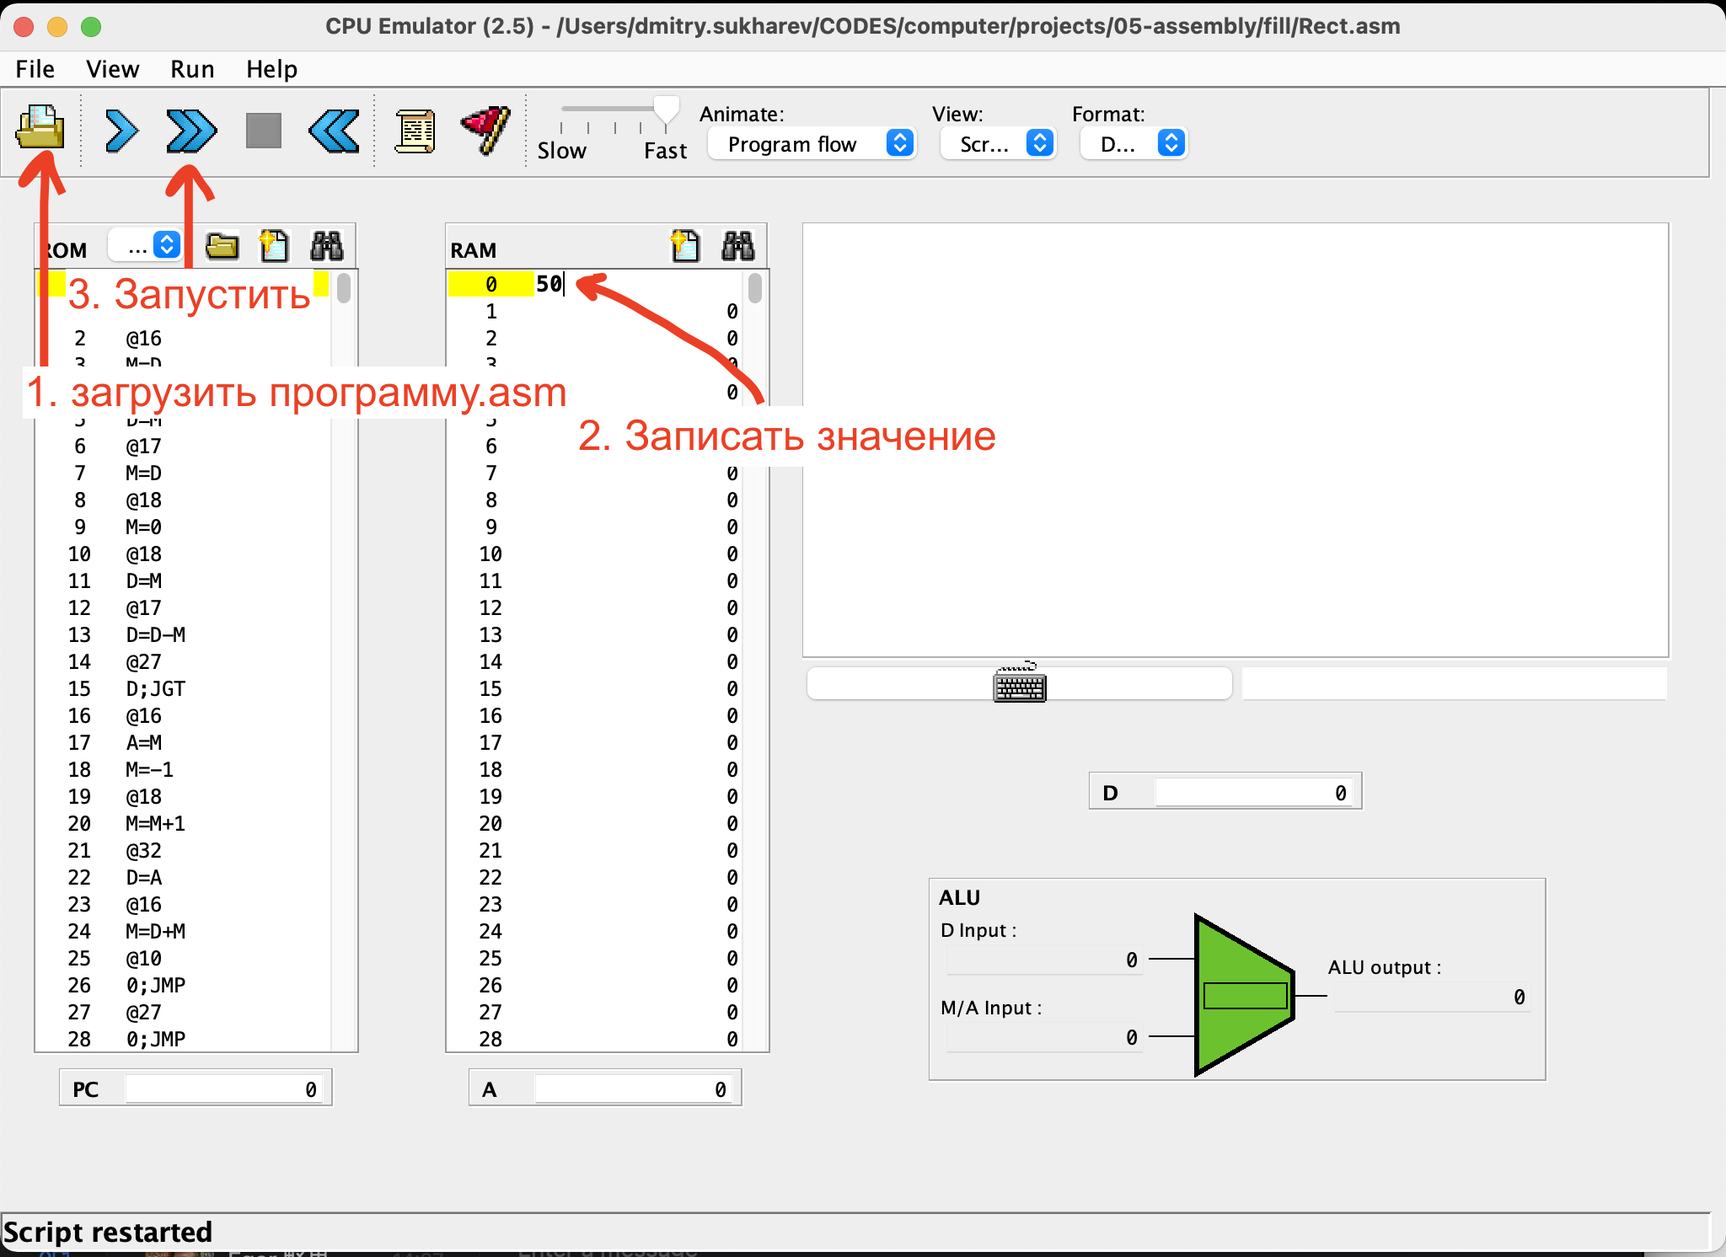
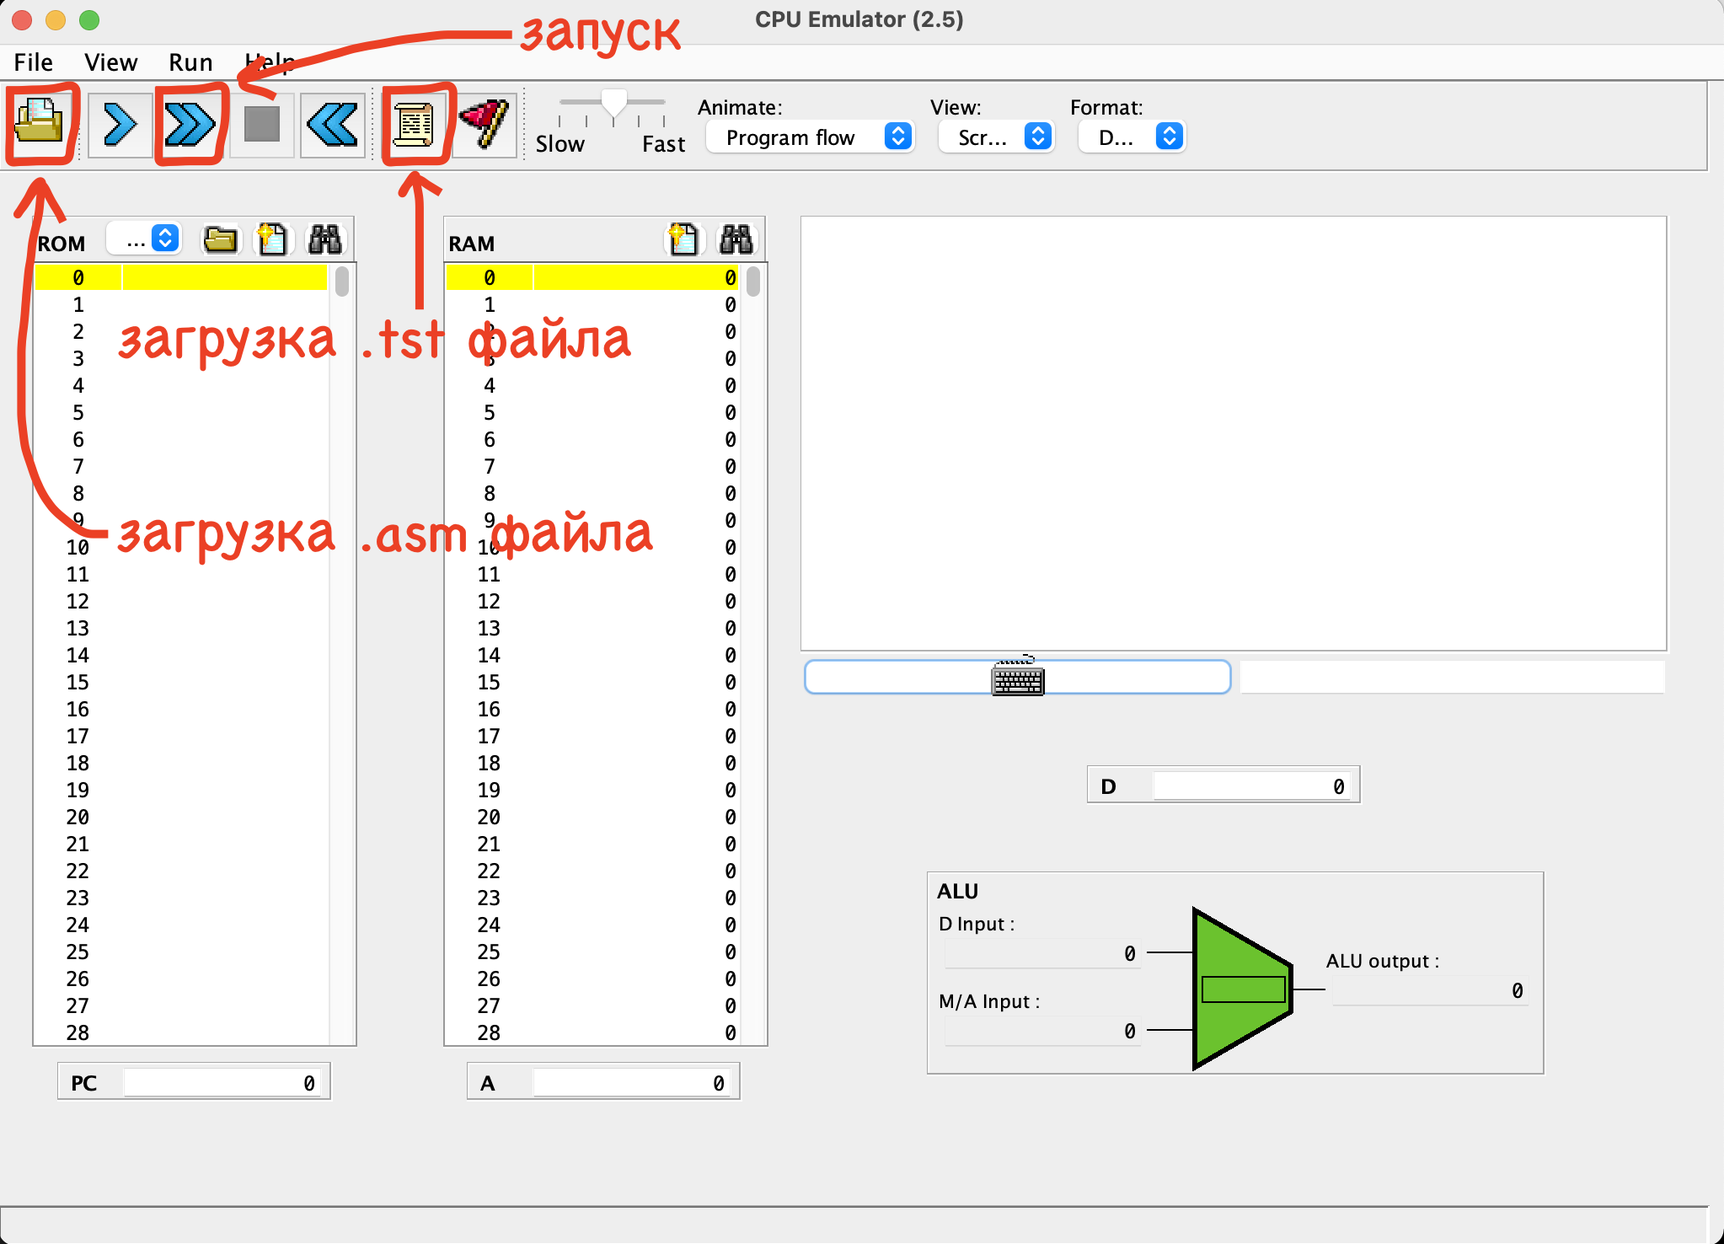
05-assembly editing

diff --git a/projects/05-assembly/README.md b/projects/05-assembly/README.md
@@ -1,8 +1,8 @@
 <!-- Если читаете файл в VSCode — нажмите ctrl+shift+v, чтобы включить режим просмотра. Для macOS — cmd+shift+v. -->
 
-# Язык ассемблера
+# Инструкция: язык ассемблера
 
-Рассмотрим язык ассемблера процессора, который мы собрали в предыдущей главе. Собранный процессор имеет два регистра (А, D) и оперирует 32K регистровой памятью.
+Рассмотрим язык ассемблера процессора, который мы собрали в предыдущей главе. Собранный процессор имеет два регистра (А, D) и оперирует 32K-регистровой памятью.
 
 Наш язык ассемблера поддерживает два типа инструкций: А и C. Рассмотрим их подробнее.
 
@@ -17,7 +17,7 @@
 Когда вы записываете какое-то число в регистр А, происходит два побочных действия:
 
 1. активируется регистр RAM[A] для записи/чтения, об этом чуть позже.
-2. PC `in` инпут становится равен значению в регистре А.
+2. PC `in` инпут становится равен значению в регистре А. То есть, значение в регистре А является указателем на инструкцию при осуществлении перехода.
 
 ## Инструкция С (compute)
 
@@ -38,7 +38,7 @@ D=M // D=RAM[A]
 @10 // A=10
 D=A // D=10
 @99 // A=99
-M=D // RAM[99]=D
+M=D // RAM[99]=10
 ```
 
 ## Переменные
@@ -48,14 +48,14 @@ M=D // RAM[99]=D
 Пример использования переменной:
 
 ```c
-// сохраним число 100 в переменную variable
+// сохраняем число 100 в переменную variable
 @100 // A=100
 D=A // D=100
 @variable // A=variable
-M=D // M=RAM[variable]=D=100
+M=D // RAM[variable]=100
 ```
 
-В примере выше мы сохранили значение 100 в переменную. Мы также могли сохранить значение в любой из RAM регистров, просто по адресу, но запоминать адреса регистров сложно, поэтому используются переменные. Запомнить, что в переменной `sum` лежит сумма двух чисел проще, чем вспоминать адрес регистра в который вы эту сумму сохранили, особенно, когда таких регистров много.
+В примере выше мы сохранили значение 100 в переменную. Мы также могли сохранить значение в любой из RAM регистров, просто по адресу, но запоминать адреса регистров сложнее, поэтому используются переменные. Запомнить, что в переменной `sum` лежит сумма двух чисел проще, чем вспоминать адрес регистра в который вы эту сумму сохранили, особенно, когда таких регистров много.
 
 ### Предустановленные переменные
 
@@ -75,20 +75,20 @@ M=D // M=RAM[variable]=D=100
 12. `SCREEN` — установлена в 16384 (это начало I/O регистров экрана)
 13. `KBD` — установлена в 24576 (это I/O регистр клавиатуры)
 
-Обратите внимание на переменные `SCREEN` и `KBD`, они нужны для взаимодействия с устройствами ввода/вывода — экраном и клавиатурой. Переменная `SCREEN` хранит адрес первого I/O регистра экрана. Регистры экрана начинаются с 16384 регистра и заканчиваются на 24575 регистре включительно. Переменная KBD хранит адрес регистра клавиатуры — 24576.
+Обратите внимание на переменные `SCREEN` и `KBD`, они нужны для взаимодействия с устройствами ввода/вывода — экраном и клавиатурой. Переменная `SCREEN` хранит адрес первого I/O регистра экрана. Регистры экрана начинаются с 16384 регистра и заканчиваются на 24575 регистре включительно. Переменная `KBD` хранит адрес регистра клавиатуры — 24576.
 
 Переменные `SP`, `LCL`, `ARG`, `THIS`, `THAT` подробнее рассматриваются в следующих проектах.
 
 ## Переходы
 
-Еще инструкция С отвечает за выполнение переходов. Если хотите перейти к 15-ой инструкции (или любой другой) — записываете 15-ть в регистр А и через инструкцию С выполняете переход, вот так:
+Еще инструкция С отвечает за выполнение переходов. Если хотите перейти к 15-ой инструкции (или любой другой) — записываете 15 в регистр А и через инструкцию С выполняете переход, вот так:
 
 ```c
 @15   // A=15
 0;JMP // безусловный переход к 15-ой инструкции
 ```
 
-В программе выше мы переходим к 15-ой инструкции, но инструкции всего две, поэтому такой пример не имеет смысла, давайте рассмотрим полноценную программу.
+Рассмотрим примеры переходов в полноценной программе:
 
 ```c
 // Программа: Signum.asm
@@ -99,18 +99,18 @@ M=D // M=RAM[variable]=D=100
 @R0    // A = 0
 D=M    // D = RAM[0]
 @8     // A = 8
-D;JGT  // условный переход: если (R0 > 0) goto -> 8
+D;JGT  // условный переход: если (D > 0) переходим к 8 инструкции
 @R1    // A = 1
 M=0    // иначе RAM[1]=0
 @10    // A = 10
-0;JMP  // безусловный переход: goto -> 10
+0;JMP  // безусловный переход к 10 инструкции
 @R1    // A = 1
-M=1    // RAM[1]=1
+M=1    // RAM[1] = 1
 @10    // A = 10
-0;JMP  // безусловный переход: goto -> 10
+0;JMP  // безусловный переход к 10 инструкции
 ```
 
-В примере программы выше условный переход происходит на четвертой строке `D;JGT`, а указатель на инструкцию к которой осуществляется переход, указан на третьей строке `@8`. Если значение в регистре R0 больше нуля происходит переход к 8-ой инструкции.
+В примере программы выше условный переход происходит на четвертой строке `D;JGT`, а указатель на инструкцию к которой осуществляется переход, указан на третьей строке `@8`: если значение в регистре R0 больше нуля происходит переход к 8-ой инструкции.
 
 Еще переходы осуществляются на 7-ой и 11-ой инструкциях. Там происходит переход к 10-ой инструкции.
 
@@ -126,20 +126,20 @@ M=1    // RAM[1]=1
 //            иначе R1=0
 // Использование: запишите значение в RAM[0],
 //                смотрите результат в RAM[1]
-@R0
+@R0    // A = 0
 D=M    // D = RAM[0]
 @POSITIVE
-D;JGT  // если (R0>0) goto -> POSITIVE
-@R1
-M=0    // иначе R1=RAM[1]=0
+D;JGT  // условный переход: если (D > 0) переходим к лейблу POSITIVE
+@R1    // A = 1
+M=0    // иначе RAM[1] = 0
 @END
-0;JMP  // goto end
+0;JMP  // безусловный переход к лейблу end
 (POSITIVE) // лейбл POSITIVE
 @R1
-M=1    // R1=RAM[1]=1
+M=1    // RAM[1]=1
 (END)  // лейбл END
 @END
-0;JMP
+0;JMP  // безусловный переход к лейблу end
 ```
 
 Видите, мы убрали переходы по номеру строки и стали переходить к лейблам. Это удобнее, так исчезает привязка программы к номерам строк.
@@ -216,7 +216,7 @@ M=D
 // RAM[0] и RAM[1]
 @R1 // A=1
 D=M // D=RAM[1]
-@temp // A=temp
+@temp // A=temp (temp — это переменная)
 M=D // RAM[temp] = R1
 @R0 // A=0
 D=M // D=RAM[0]
@@ -253,7 +253,7 @@ M=D   // RAM[2] = D
 @R0
 D=M    // D = RAM[0]
 @POSITIVE
-D;JGT  // если (R0>0) goto -> POSITIVE
+D;JGT  // если (R0>0) переходим к лейблу POSITIVE
 @R1
 M=0    // иначе R1=RAM[1]=0
 @END
@@ -285,7 +285,7 @@ D=M
 @n
 D=D-M
 @STOP
-D;JGT  // если (i > n) goto -> STOP
+D;JGT  // если (i > n) переходим к лейблу STOP
 @sum
 D=M
 @i
@@ -314,23 +314,23 @@ M=D    // RAM[1] = sum
 // RAM[0] пикселей.
 // Использование: запишите значение
 // (высоту прямоугольника) в RAM[0].
-@SCREEN
+@SCREEN // A = 16384
 D=A
 @addr
-M=D // addr = 16384
+M=D // addr = 16384 (инициализируем переменную addr)
 @0
-D=M
+D=M // D = RAM[0]
 @n
 M=D // n = RAM[0]
 @i
-M=0 // i = 0
+M=0 // i = 0 (инициализируем переменную i)
 (LOOP)
 @i
 D=M
 @n
 D=D-M
 @END
-D;JGT // если (i > n) goto -> END
+D;JGT // если (i > n) переходим к лейблу END
 @addr
 A=M
 M=-1 // RAM[addr]=1111111111111111
@@ -350,10 +350,36 @@ M=D+M // addr = addr + 32 (переход на следующую строку)
 
 ## Задача
 
-Напишите две программы: [Mult.asm](mult/mult.asm) и [Fill.asm](fill/Fill.asm) в соответствующих папках mult и fill.
+Напишите две программы: [Mult.asm](mult/mult.asm) и [Fill.asm](fill/Fill.asm). Программы находятся в соответствующих папках mult и fill.
 
-Чтобы запустить программу, откройте ее в симуляторе процессора. Симулятор процессора запускается через меню команд — ctrl+shift+p или cmd+shift+p для macOS: `Nand2Tetris: Open CPU Simulator`.
+Программа `mult.asm` — умножает два числа.
+
+Программа `fill.asm` — закрашивает экран в черный, когда вы нажимаете клавишу на клавиатуре.
+
+### Как запустить программу
+
+Чтобы запустить программу, откройте ее в симуляторе процессора.
+
+Симулятор процессора запускается через меню команд — ctrl+shift+p или cmd+shift+p для macOS: `Nand2Tetris: Open CPU Simulator`.
+
+Чтобы проверить программу (`fill.asm` или `mult.asm`), загрузите в симулятор процессора соответствующий тестовый файл (`fill.tst` или `mult.tst`). Тестовые файлы загружаются через кнопку с иконкой свитка. После загрузки тестового файла запускайте программу. Чтобы запустить программу нажмите на кнопку с иконкой двух стрелок (не забудьте переключить опцию `Animate` в значение `no animation`).
+
+Если у программы нет тестового файла, например вы хотите посмотреть, как работает программа `Rect.asm` в папке `/fill`, тогда загружайте в симулятор сам `Rect.asm` файл и запускайте программу без тестового файла. Файлы `.asm` загружаются через кнопку с иконкой папки.
 
 ![как запустить программу](img/how2runProgramm.png)
 
-После установки значений в память не забудьте переключить опцию `Animation` на `no animation`, так программа выполняется быстрее.
+### Как пользоваться клавиатурой
+
+Чтобы использовать клавиатуру нажмите на кнопку с изображением клавиатуры, ввод с клавиатуры включится и вы сможете нажимать на клавиши.
+
+![как использовать клавиатуру](img/how2useKeyboard.png)
+
+### Установка значений в память
+
+Вы можете установить значение в память. Для этого кликните на RAM регистр и введите в него значение.
+
+Значения устанавливаются только, когда опция `Animate` установлена в значение `program flow`.
+
+После установки значений в память, не забудьте переключить опцию `Animate` на `no animation`, так программа выполняется быстрее.
+
+![как установить значение в память](img/how2setValues.png)
